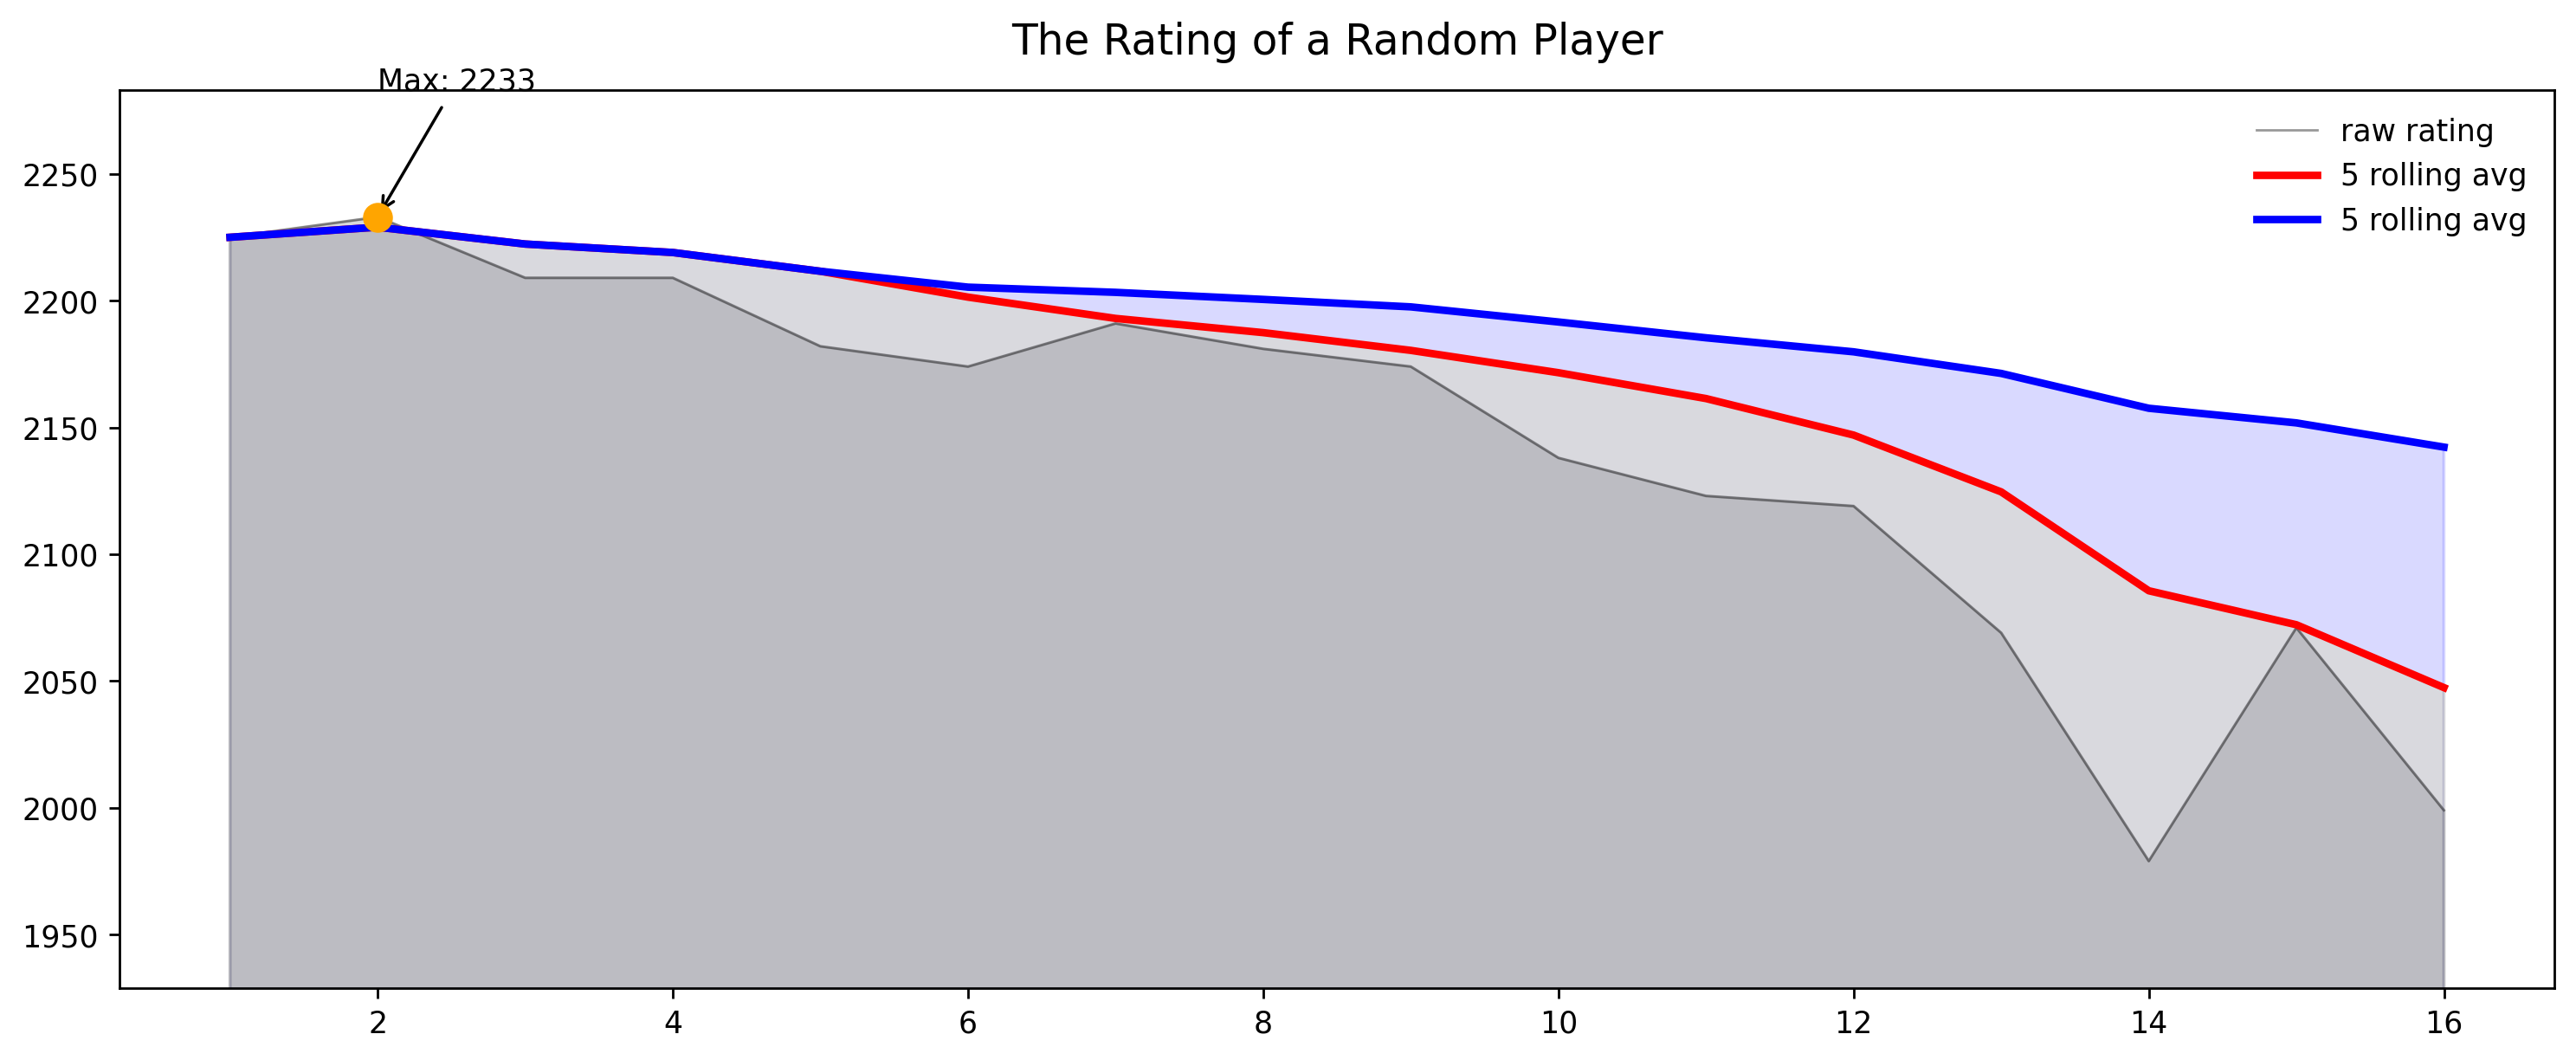
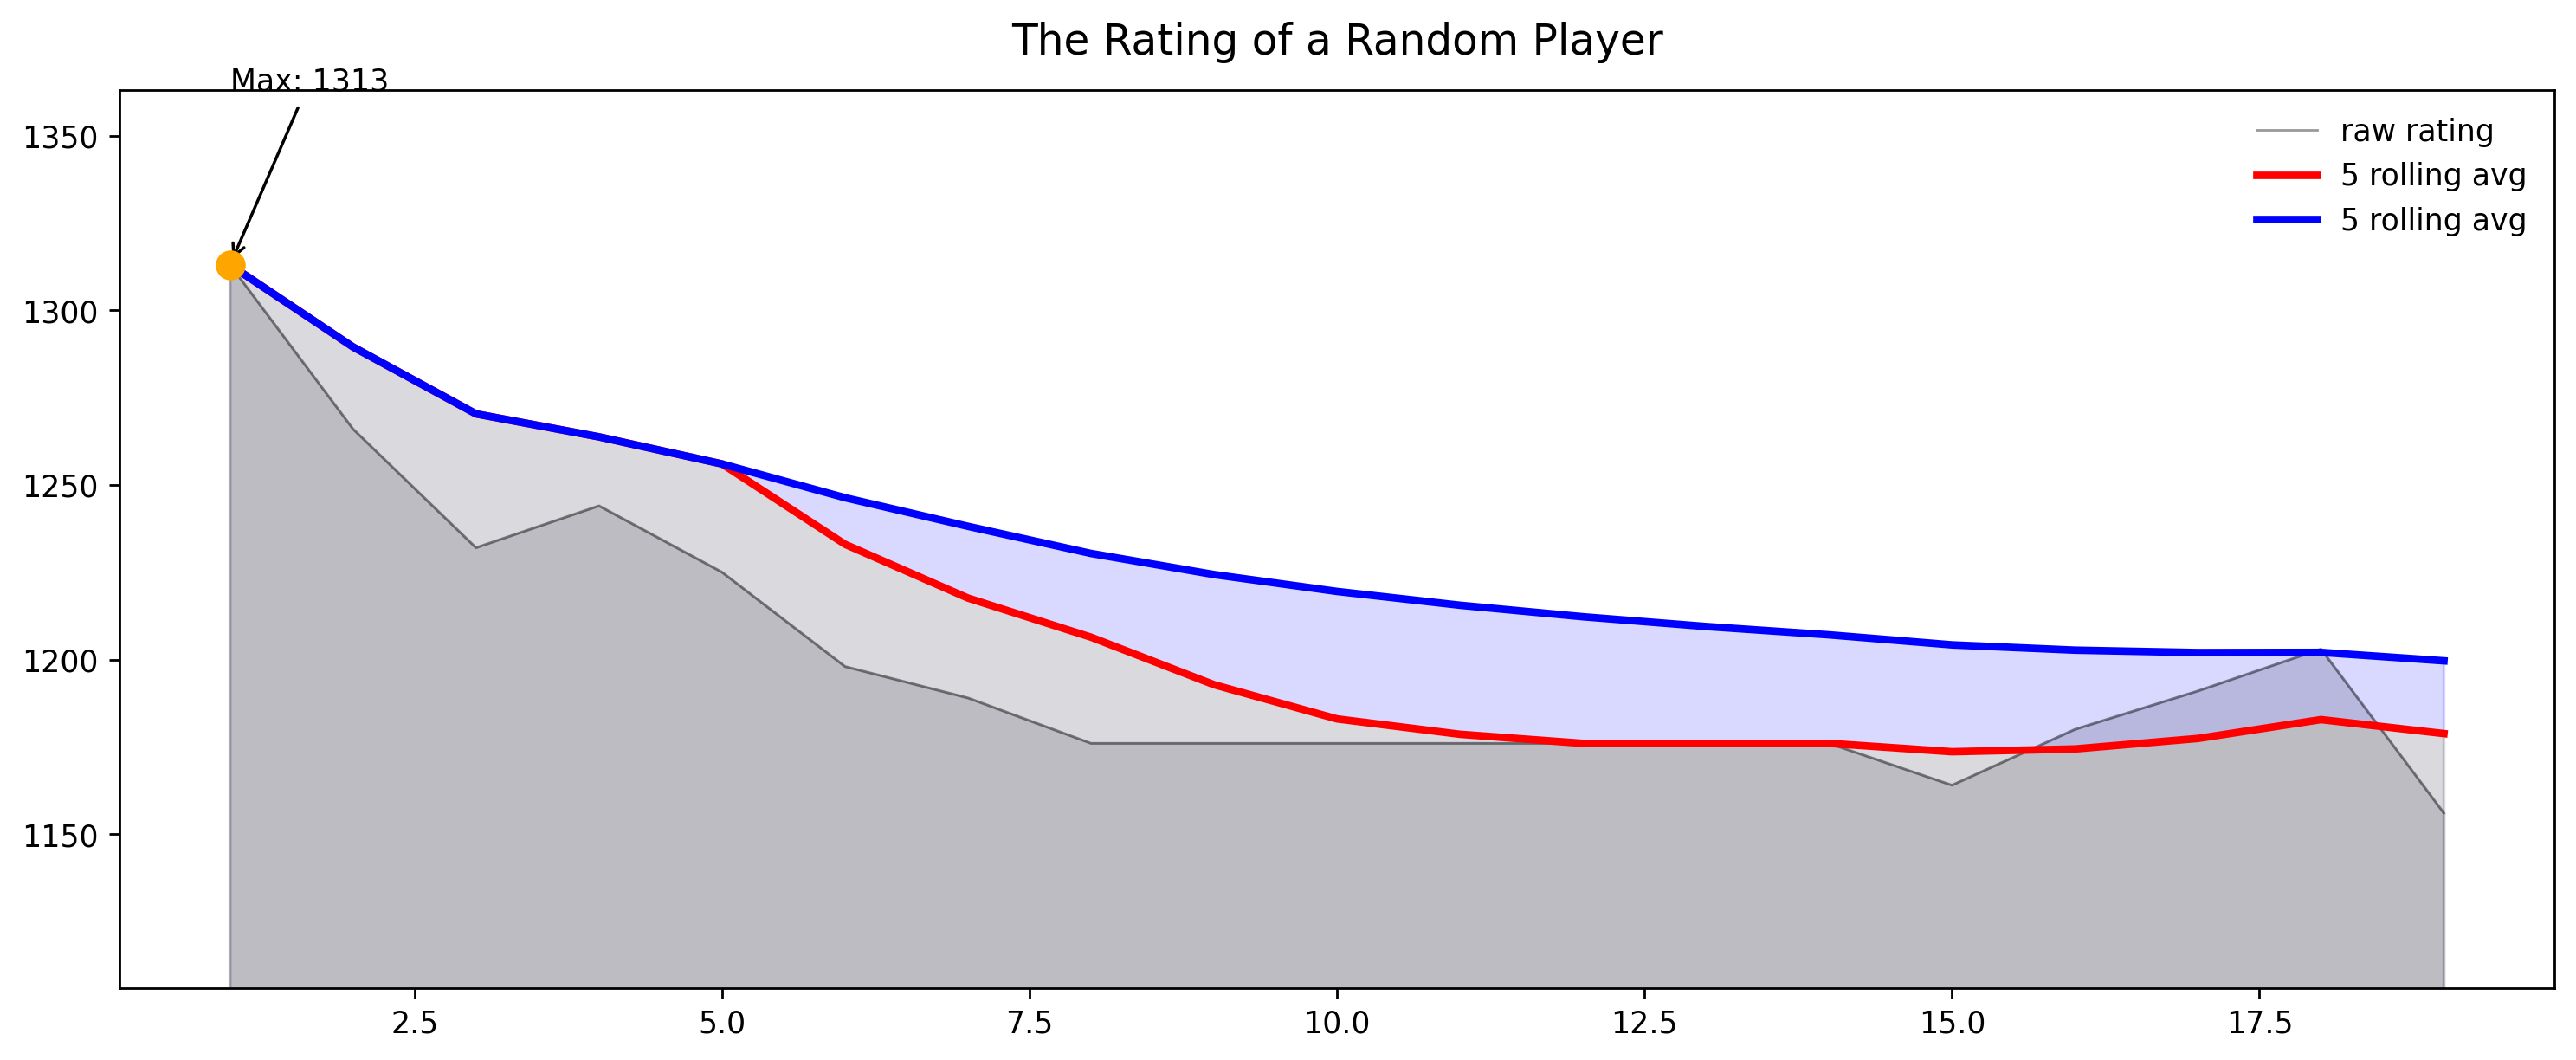
Writing the readme file And the requirement text

diff --git a/fetch_and_clean.py b/fetch_and_clean.py
@@ -1,0 +1,51 @@
+import pandas as pd
+import os
+import kaggle
+
+
+url = 'https://drive.google.com/file/d/1eR3NZtwIC6ECN3vhtrynqmx8okG0twA7/view?usp=sharing'
+url='https://drive.google.com/uc?id=' + url.split('/')[-2]
+url2 = "https://drive.google.com/file/d/1wCSAkGagMzWiToedLC3ZGo_lGf_laF-k/view?usp=sharing"
+url2='https://drive.google.com/uc?id=' + url2.split('/')[-2]
+kaggle.api.authenticate ()
+kaggle.api.dataset_download_files(
+    'shivamb/netflix-shows',
+    path='data/raw/', unzip=True)
+TEMP_ANNUAL = pd.read_csv('https://raw.githubusercontent.com/datasets/global-temp/main/data/annual.csv')
+TEMP_ANNUAL.to_csv("data/raw/temp_annualy.csv", index=False)
+TEMP_MONTHLY = pd.read_csv("https://raw.githubusercontent.com/datasets/global-temp/main/data/monthly.csv")
+TEMP_MONTHLY.to_csv("data/raw/temp_monthly.csv", index=False)
+
+def load_data(url: str, local_path: str) -> pd.DataFrame:
+    if os.path.exists(local_path):
+        print(f'Loading from cache: {local_path}')
+        return pd.read_csv(local_path)
+
+    print(f'Downloading from {url} ...')
+    df = pd.read_csv(url)
+    os.makedirs(os.path.dirname(local_path), exist_ok=True)
+    df.to_csv(local_path, index=False)
+    print(f'Saved to {local_path}')
+    return df
+
+df = load_data(url2, 'data/raw/chess_players.csv')
+df = load_data(url, 'data/raw/chess_games.csv')
+
+
+dfg = pd.read_csv("data/raw/chess_games.csv", encoding='latin1')
+dfp = pd.read_csv("data/raw/chess_players.csv", encoding='latin1')
+
+
+def clean_function_games(dfg,local_path):
+    dfg[['time_base', 'time_inc']] = dfg['time_increment'].str.split('+', expand=True).astype(int)
+    dfg['rating_diff'] = dfg['white_rating'] - dfg['black_rating']
+    dfg['opening_family'] = dfg['opening_fullname'].str.split(':').str[0].str.strip()
+    dfg = dfg.drop(columns=['opening_response'])
+    dfg['is_suspicios'] = dfg['turns'] < 5
+    assert dfg['rating_diff'].notna().all()
+    assert dfg.duplicated().sum() == 0
+    os.makedirs(os.path.dirname(local_path), exist_ok=True)
+    dfg.to_csv(local_path, index=False)
+    print(f'Saved to {local_path}')
+    return  dfg
+clean_function_games(dfg,"data/raw/chess_games.csv")

diff --git a/main.py b/main.py
@@ -30,7 +30,7 @@ ax.set_ylabel('Average Turns', fontsize=12)
 ax.spines[['top','right']].set_visible(False)
 ax.legend(frameon=False)
 fig.tight_layout()
-plt.savefig('data/polt/Q1_pivot_table.png', dpi=150,
+plt.savefig('data/polt/Q1_Average_turns.png', dpi=150,
             bbox_inches='tight')
 for container in ax.containers:
     ax.bar_label(container, fmt='%.1f')

diff --git a/README.md b/README.md
@@ -1,2 +1,31 @@
-# session_8
+# Session 8
 
+This is the coursework for session number 8. Running the `main.py` 
+file will generate the figures in the designated folder (`data/plot`).
+If there is no data available, it can be generated through the 
+`fetch_and_clean.py` file, which downloads and cleans the data 
+into its designated folder (`data/raw`).
+
+## Findings:
+
+The first finding I noticed in the Netflix dataset, from the figure 
+`Q4-3_Netflix_Staked_bar.png`, is that there was a drop in the 
+number of TV shows and movies added in late 2020 and 2021. This could be related to 
+the impact of the Coronavirus pandemic, which caused production 
+delays for many shows and movies.
+
+The second finding is from the temperature dataset in the figure 
+`Q3_temp_year.png`, which shows an obvious increase in average temperature 
+throughout the decades. This clearly indicates that global temperatures are warming a
+nd that climate change is still a problem and a challenge facing humanity.
+
+The third finding in the chess dataset is from the first figure 
+`Q1_Average_turns`. I noticed that the average number of turns for 
+mate endings and resignations are extremely close, somewhere between 60 and 80. 
+This suggests that many chess games in the dataset tend to end around this range, 
+while games that continue longer may have a higher chance of 
+ending in a draw, as seen in the out-of-time status.
+
+One last note about the random player rating figure: it generates a random player each time 
+the code runs and adjusts the figure to match their minimum and maximum rating 
+for better visualization.